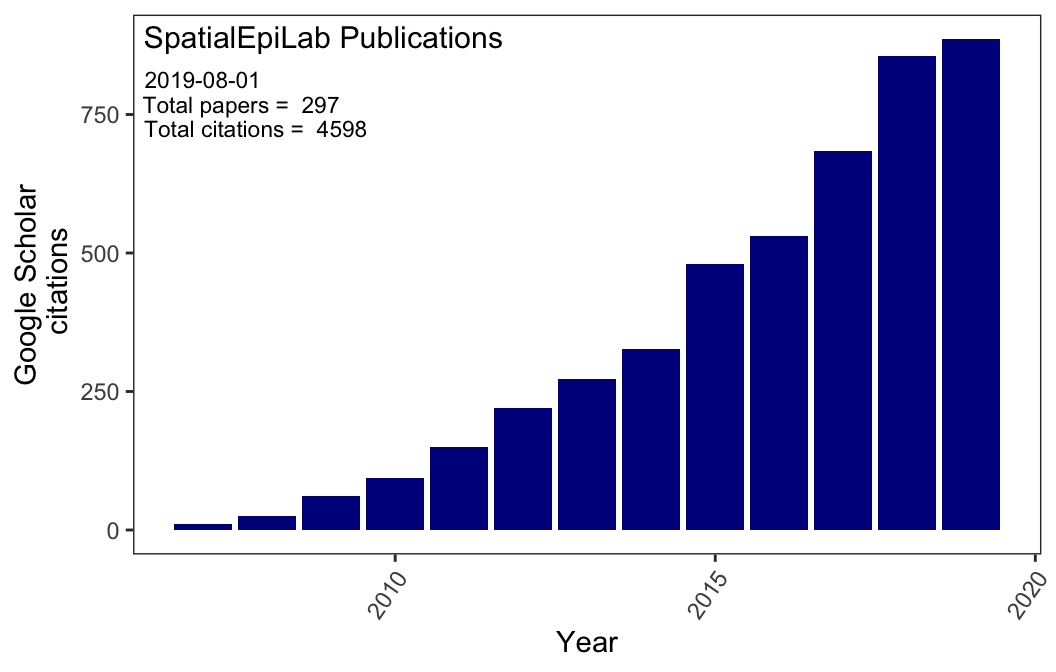
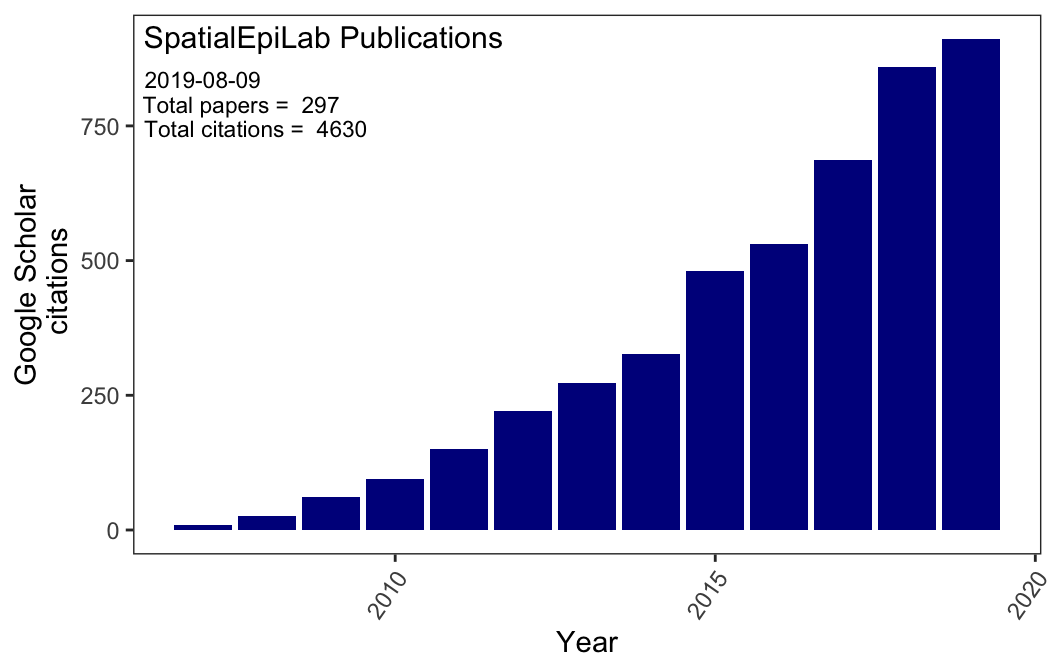
update website

diff --git a/index.html b/index.html
@@ -382,8 +382,8 @@ $(document).ready(function () {
 <p><link rel="stylesheet" href="styles.css" type="text/css"></p>
 <p><img src="images/spatial_website_logo.png" style="width:90%; margin-bottom: 1px" align="top" alt="The Spatial Epidemiology Lab (SpatialEpi) is a medical geography and disease ecology research group based at the University of Queensland"></p>
 <div class="col">
-<p><strong>Who we are</strong> <br> The <em>SpatialEpiLab</em> is a <a href="https://www.who.int/features/qa/one-health/en/" target="_blank">One Health</a> medical geography research group based at the <a href="https://veterinary-science.uq.edu.au/" target="_blank">School of Veterinary Science at the University of Queensland</a>, Australia, headed by <a href="people.html" target="_blank">Associate Professor Ricardo Soares Magalhães</a>. With a diversity of backgrounds and perspectives, we have broad expertise in health sciences, mathematical modelling, social sciences, ecology and epidemiology. <br> <br> <strong>What we do</strong> <br> Research at the <em>SpatialEpiLab</em> lies at the interface between animal and human public health and aims to inform disease control policy by identifying major determinants of the geographical distributions of infections and their associated morbidities. We work with international partners to blend our multidisciplinary expertise and deliver in-depth investigations for many important pathogens.</p>
-Our work is routinely published in high impact peer reviewed journals in the international literature (<a href="publications.html" target="_blank">see our publications here</a>). Most of the maps and tools derived from our research are available to other researchers and disease control programme managers. <br> <br> <strong>Browse around to find out more</strong> <br> Please navigate the content on these pages to access more information about the studies that we are currently involved in and the outputs we are producing. If you are interested in our work and would like to discuss potential projects, please see our contact details. We also readily welcome visitors to our lab, especially for our monthly lab chat, so let us know if you’re keen for a visit (<a href="contact.html" target="_blank">our contact details are found here</a>).
+<p><strong>Who we are</strong> <br> The <em>SpatialEpiLab</em> is a <a href="https://www.who.int/features/qa/one-health/en/" target="_blank">One Health</a> medical geography research group based at the <a href="https://veterinary-science.uq.edu.au/" target="_blank">School of Veterinary Science at the University of Queensland</a>, Australia, headed by <a href="people.html" target="_blank">Associate Professor Ricardo Soares Magalhães</a>. With a diversity of backgrounds and perspectives, we have broad expertise in health sciences, mathematical modelling, social sciences, ecology and epidemiology. <br> <br> <strong>What we do</strong> <br> Research at the <em>SpatialEpiLab</em> lies at the interface between animal and human public health and aims to inform disease control policy by identifying major determinants of the geographical distributions of infections and their associated morbidities. We work with international partners to blend our multidisciplinary expertise and deliver in-depth investigations for many important pathogens around the world.</p>
+Our work is routinely published in high impact peer reviewed journals in the international literature (<a href="publications.html" target="_blank">see our publications here</a>). Most of the risk-maps and analytical tools derived from our research are available to other researchers and disease control programme managers. <br> <br> <strong>Browse around to find out more</strong> <br> Please navigate the content on these pages to access more information about the studies that we are currently involved in and the outputs we are producing. If you are interested in our work and would like to discuss potential projects, please see our contact details. We also readily welcome visitors to our lab, especially for our monthly lab chat, so let us know if you’re keen for a visit (<a href="contact.html" target="_blank">our contact details are found here</a>).
 </div>
 
 

diff --git a/publications.html b/publications.html
@@ -4158,7 +4158,7 @@ A Ortiz-Pelaez, DU Pfeiffer, RJ Soares-Magalhaes, FJ Guitian
 2006
 </td>
 <td style="text-align:right;">
-199
+201
 </td>
 </tr>
 <tr>
@@ -4175,7 +4175,7 @@ ACA Clements, RJS Magalhães, AJ Tatem, DL Paterson, TV Riley
 2010
 </td>
 <td style="text-align:right;">
-192
+194
 </td>
 </tr>
 <tr>
@@ -4197,23 +4197,6 @@ NJ Clark, SM Clegg, MR Lima
 </tr>
 <tr>
 <td style="text-align:left;width: 30em; ">
-Co-Distribution and Co-Infection of Chikungunya and Dengue Viruses
-</td>
-<td style="text-align:left;width: 20em; font-style: italic;">
-Bmc Infectious Diseases
-</td>
-<td style="text-align:left;width: 20em; ">
-L Furuya-Kanamori, S Liang, G Milinovich, RJS Magalhaes, …
-</td>
-<td style="text-align:right;">
-2016
-</td>
-<td style="text-align:right;">
-127
-</td>
-</tr>
-<tr>
-<td style="text-align:left;width: 30em; ">
 Mapping the Risk of Anaemia in Preschool-Age Children: The Contribution of Malnutrition, Malaria, and Helminth Infections in West Africa
 </td>
 <td style="text-align:left;width: 20em; font-style: italic;">
@@ -4224,6 +4207,23 @@ RJS Magalhães, ACA Clements
 </td>
 <td style="text-align:right;">
 2011
+</td>
+<td style="text-align:right;">
+128
+</td>
+</tr>
+<tr>
+<td style="text-align:left;width: 30em; ">
+Co-Distribution and Co-Infection of Chikungunya and Dengue Viruses
+</td>
+<td style="text-align:left;width: 20em; font-style: italic;">
+Bmc Infectious Diseases
+</td>
+<td style="text-align:left;width: 20em; ">
+L Furuya-Kanamori, S Liang, G Milinovich, RJS Magalhaes, …
+</td>
+<td style="text-align:right;">
+2016
 </td>
 <td style="text-align:right;">
 127
@@ -4277,7 +4277,7 @@ F Ding, W Zhang, L Wang, W Hu, RJ Magalhaes, H Sun, H Zhou, S Sha, …
 2013
 </td>
 <td style="text-align:right;">
-91
+92
 </td>
 </tr>
 <tr>
